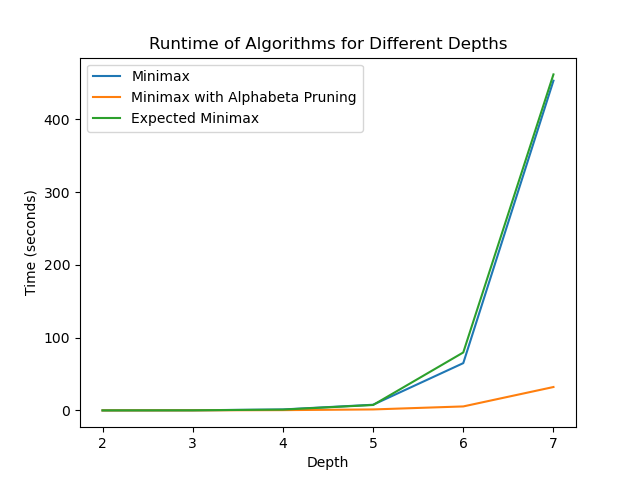
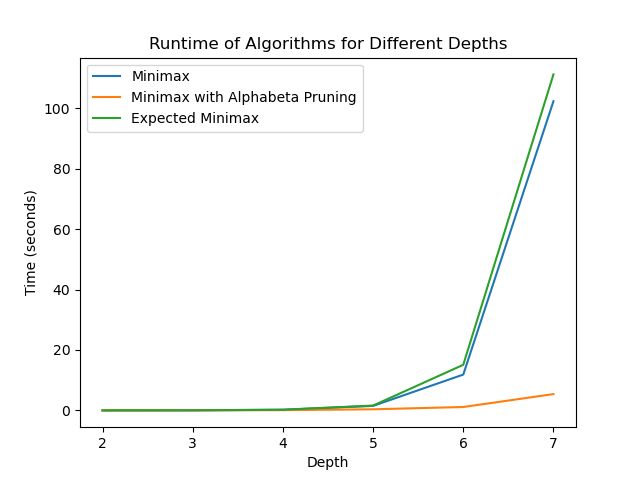
calculating new time comparison after editing the heuristic

diff --git a/server/utils/timeCalculation.py b/server/utils/timeCalculation.py
@@ -11,7 +11,7 @@ from utils.minimax import minimax_decision
 from utils.expected import expected_decision
 
 
-depths = range(2, 8)
+depths = range(1, 2)
 times_algo1 = []
 times_algo2 = []
 times_algo3 = []
@@ -43,86 +43,43 @@ plt.legend()
 plt.savefig(os.path.join(os.path.dirname(__file__), 'algorithm_runtime.png'))
 plt.show()
 
-# last output:
+# Output:
 # Depth: 2 started
-# alphabeta: 0.017586231231689453
-# minimax: 0.02162337303161621
-# expected: 0.027234554290771484
-# Depth: 2 done
-# minimax: 0.02162337303161621
-# minimax: 0.02162337303161621
-# minimax: 0.02162337303161621
-# expected: 0.027234554290771484
+# alphabeta: 0.0
+# minimax: 0.010590076446533203
+# expected: 0.002993345260620117
 # Depth: 2 done
 # Depth: 3 started
-# alphabeta: 0.07280325889587402
-# minimax: 0.14037299156188965
-# minimax: 0.02162337303161621
-# expected: 0.027234554290771484
-# Depth: 2 done
-# Depth: 3 started
-# alphabeta: 0.07280325889587402
-# minimax: 0.02162337303161621
-# expected: 0.027234554290771484
-# Depth: 2 done
-# Depth: 3 started
-# alphabeta: 0.07280325889587402
-# expected: 0.027234554290771484
-# Depth: 2 done
-# Depth: 3 started
-# Depth: 3 started
-# alphabeta: 0.07280325889587402
-# minimax: 0.14037299156188965
-# expected: 0.15262269973754883
+# alphabeta: 0.020944595336914062
+# minimax: 0.029100894927978516
+# expected: 0.035857439041137695
 # Depth: 3 done
 # Depth: 4 started
-# alphabeta: 0.37639498710632324
-# minimax: 1.3120026588439941
-# expected: 1.1063189506530762
-# Depth: 4 done
-# minimax: 0.14037299156188965
-# expected: 0.15262269973754883
-# Depth: 3 done
-# Depth: 4 started
-# alphabeta: 0.37639498710632324
-# minimax: 1.3120026588439941
-# expected: 1.1063189506530762
+# alphabeta: 0.08601593971252441
+# minimax: 0.22858309745788574
+# expected: 0.20847487449645996
 # Depth: 4 done
 # Depth: 5 started
-# expected: 0.15262269973754883
-# Depth: 3 done
-# Depth: 4 started
-# alphabeta: 0.37639498710632324
-# minimax: 1.3120026588439941
-# expected: 1.1063189506530762
+# alphabeta: 0.36717796325683594
+# minimax: 0.22858309745788574
+# expected: 0.20847487449645996
 # Depth: 4 done
 # Depth: 5 started
-# minimax: 1.3120026588439941
-# expected: 1.1063189506530762
+# alphabeta: 0.36717796325683594
 # Depth: 4 done
 # Depth: 5 started
-# expected: 1.1063189506530762
-# Depth: 4 done
-# Depth: 5 started
-# alphabeta: 1.3431437015533447
-# Depth: 5 started
-# alphabeta: 1.3431437015533447
-# minimax: 7.7818989753723145
-# alphabeta: 1.3431437015533447
-# minimax: 7.7818989753723145
-# minimax: 7.7818989753723145
-# expected: 7.456750154495239
+# alphabeta: 0.36717796325683594
+# alphabeta: 0.36717796325683594
+# minimax: 1.4886014461517334
+# expected: 1.5999999046325684
 # Depth: 5 done
 # Depth: 6 started
-# Depth: 5 done
-# Depth: 6 started
-# alphabeta: 5.468378067016602
-# minimax: 64.97731494903564
-# expected: 79.64130449295044
-# Depth: 6 done
+# alphabeta: 1.1268181800842285
+# minimax: 11.861638069152832
+# expected: 15.101814031600952
 # Depth: 6 done
 # Depth: 7 started
-# alphabeta: 32.1421172618866
-# minimax: 453.0930805206299
-# expected: 461.7324643135071
+# alphabeta: 5.397247552871704
+# minimax: 102.36785364151001
+# expected: 111.24937868118286
 # Depth: 7 done
